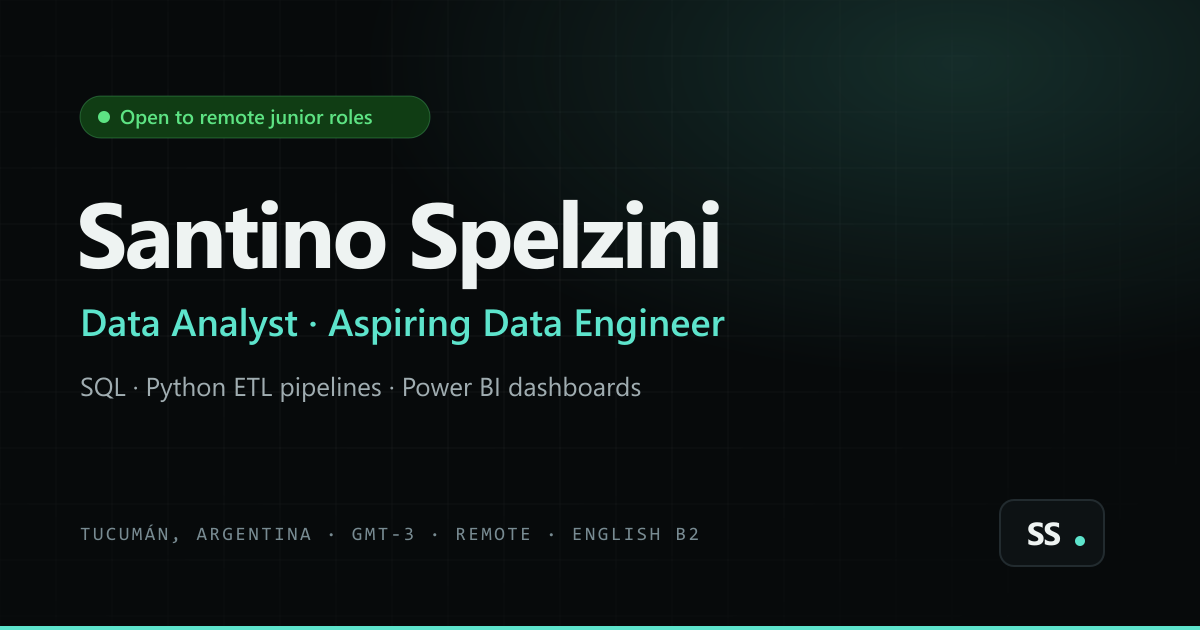
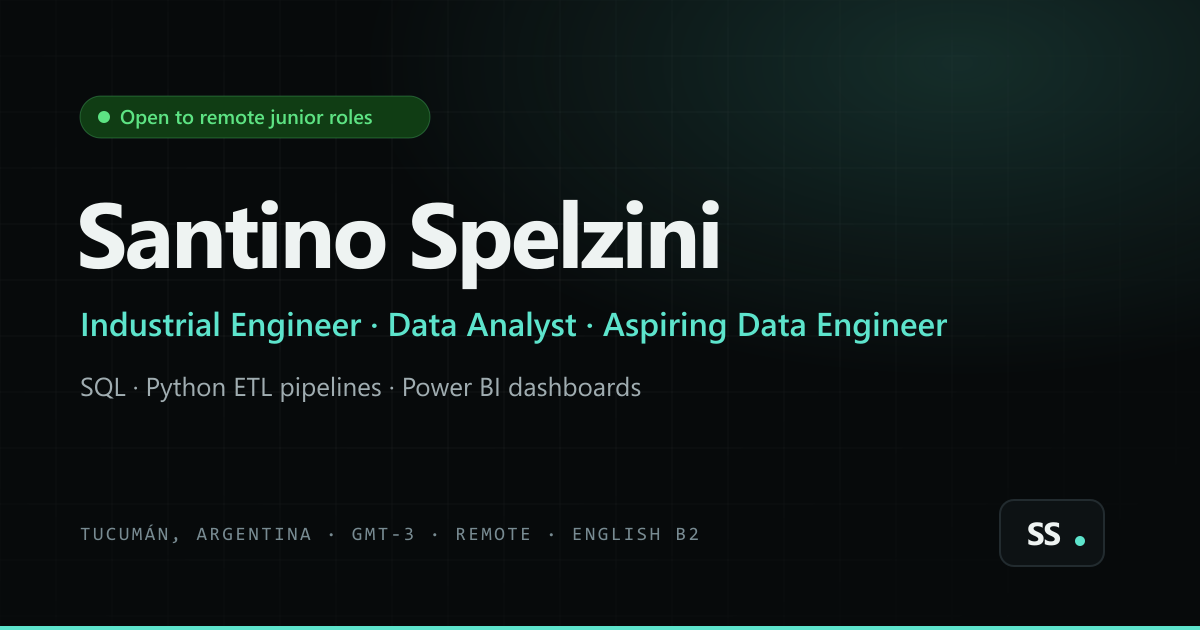
Add Industrial Engineer to the hero role line
Show "Industrial Engineer · Data Analyst · Aspiring Data Engineer" (EN/ES)
under the name, in page/OG titles, JSON-LD jobTitle and the OG image.
Each title stays unbroken; lines wrap only after a separator.

Changed region(s): [[0.0617, 0.4825, 0.8017, 0.5429]]

diff --git a/index.html b/index.html
@@ -3,7 +3,7 @@
   <head>
     <meta charset="UTF-8" />
     <meta name="viewport" content="width=device-width, initial-scale=1.0" />
-    <title>Santino Spelzini | Data Analyst · Aspiring Data Engineer</title>
+    <title>Santino Spelzini | Industrial Engineer · Data Analyst · Aspiring Data Engineer</title>
     <meta name="description" content="Junior Data Analyst and Industrial Engineer from Argentina. ETL pipelines, SQL, Python and Power BI dashboards. Open to remote roles." />
     <meta name="theme-color" content="#070A0B" />
     <meta name="color-scheme" content="dark" />
@@ -13,15 +13,15 @@
 
     <meta property="og:type" content="website" />
     <meta property="og:site_name" content="Santino Spelzini" />
-    <meta property="og:title" content="Santino Spelzini | Data Analyst · Aspiring Data Engineer" />
+    <meta property="og:title" content="Santino Spelzini | Industrial Engineer · Data Analyst · Aspiring Data Engineer" />
     <meta property="og:description" content="Junior Data Analyst and Industrial Engineer from Argentina. ETL pipelines, SQL, Python and Power BI dashboards. Open to remote roles." />
     <meta property="og:url" content="%VITE_SITE_URL%/" />
     <meta property="og:image" content="%VITE_SITE_URL%/og-image.png" />
     <meta property="og:image:width" content="1200" />
     <meta property="og:image:height" content="630" />
-    <meta property="og:image:alt" content="Santino Spelzini — Data Analyst · Aspiring Data Engineer" />
+    <meta property="og:image:alt" content="Santino Spelzini — Industrial Engineer · Data Analyst · Aspiring Data Engineer" />
     <meta name="twitter:card" content="summary_large_image" />
-    <meta name="twitter:title" content="Santino Spelzini | Data Analyst · Aspiring Data Engineer" />
+    <meta name="twitter:title" content="Santino Spelzini | Industrial Engineer · Data Analyst · Aspiring Data Engineer" />
     <meta name="twitter:description" content="Junior Data Analyst and Industrial Engineer from Argentina. ETL pipelines, SQL, Python and Power BI dashboards. Open to remote roles." />
     <meta name="twitter:image" content="%VITE_SITE_URL%/og-image.png" />
 
@@ -30,7 +30,7 @@
         "@context": "https://schema.org",
         "@type": "Person",
         "name": "Santino Spelzini",
-        "jobTitle": "Data Analyst",
+        "jobTitle": ["Industrial Engineer", "Data Analyst"],
         "url": "%VITE_SITE_URL%/",
         "address": { "@type": "PostalAddress", "addressLocality": "Yerba Buena", "addressRegion": "Tucumán", "addressCountry": "AR" },
         "alumniOf": { "@type": "CollegeOrUniversity", "name": "Universidad del Norte Santo Tomás de Aquino (UNSTA)" },
@@ -41,7 +41,7 @@
   </head>
   <body>
     <noscript>
-      <p style="padding:24px;color:#EEF3F2;font-family:sans-serif">Santino Spelzini — Data Analyst · Aspiring Data Engineer. <a style="color:#5DE4CC" href="https://www.linkedin.com/in/santino-spelzini-b605662a5">LinkedIn</a> · <a style="color:#5DE4CC" href="https://github.com/sxntnx">GitHub</a></p>
+      <p style="padding:24px;color:#EEF3F2;font-family:sans-serif">Santino Spelzini — Industrial Engineer · Data Analyst · Aspiring Data Engineer. <a style="color:#5DE4CC" href="https://www.linkedin.com/in/santino-spelzini-b605662a5">LinkedIn</a> · <a style="color:#5DE4CC" href="https://github.com/sxntnx">GitHub</a></p>
     </noscript>
     <div id="root"></div>
     <script type="module" src="/src/main.tsx"></script>

diff --git a/src/components/Hero.tsx b/src/components/Hero.tsx
@@ -1,6 +1,6 @@
 import { m, useMotionTemplate, useMotionValue, useReducedMotion, useSpring } from 'framer-motion'
 import { FileDown } from 'lucide-react'
-import { useEffect, useRef } from 'react'
+import { Fragment, useEffect, useRef } from 'react'
 import { links } from '../data/content'
 import { useLang } from '../lib/i18n'
 import { EASE, asset, fadeUp, isFinePointer, stagger } from '../lib/motion'
@@ -175,7 +175,16 @@ export function Hero() {
           </h1>
 
           <m.p variants={fadeUp} className="mt-4 text-[19px] font-medium text-accent sm:text-[21px]">
-            {t.hero.role}
+            {/* Each title stays on one line; wrapping only happens after a "·" separator. */}
+            {t.hero.role.split(' · ').map((r, i, all) => (
+              <Fragment key={r}>
+                <span className="whitespace-nowrap">
+                  {r}
+                  {i < all.length - 1 && <span className="text-accent/50">&nbsp;·</span>}
+                </span>
+                {i < all.length - 1 && ' '}
+              </Fragment>
+            ))}
           </m.p>
 
           <m.p variants={fadeUp} className="mt-5 max-w-[540px] text-[16px] leading-[1.6] text-fg-muted sm:text-[17px]">

diff --git a/src/data/content.ts b/src/data/content.ts
@@ -113,7 +113,7 @@ const en: Content = {
   hero: {
     badge: 'Open to remote junior roles',
     name: 'Santino Spelzini',
-    role: 'Data Analyst · Aspiring Data Engineer',
+    role: 'Industrial Engineer · Data Analyst · Aspiring Data Engineer',
     tagline:
       "I take data from raw source to decision — SQL, Python ETL pipelines and KPI dashboards, with an industrial engineer's business mindset.",
     ctaProjects: 'View projects',
@@ -293,7 +293,7 @@ const es: Content = {
   hero: {
     badge: 'Disponible para roles junior remotos',
     name: 'Santino Spelzini',
-    role: 'Data Analyst · Aspiring Data Engineer',
+    role: 'Ingeniero Industrial · Analista de Datos · Aspirante a Data Engineer',
     tagline:
       'Llevo el dato desde la fuente hasta la decisión — SQL, pipelines ETL en Python y tableros de KPIs, con la mirada de negocio de un ingeniero industrial.',
     ctaProjects: 'Ver proyectos',
